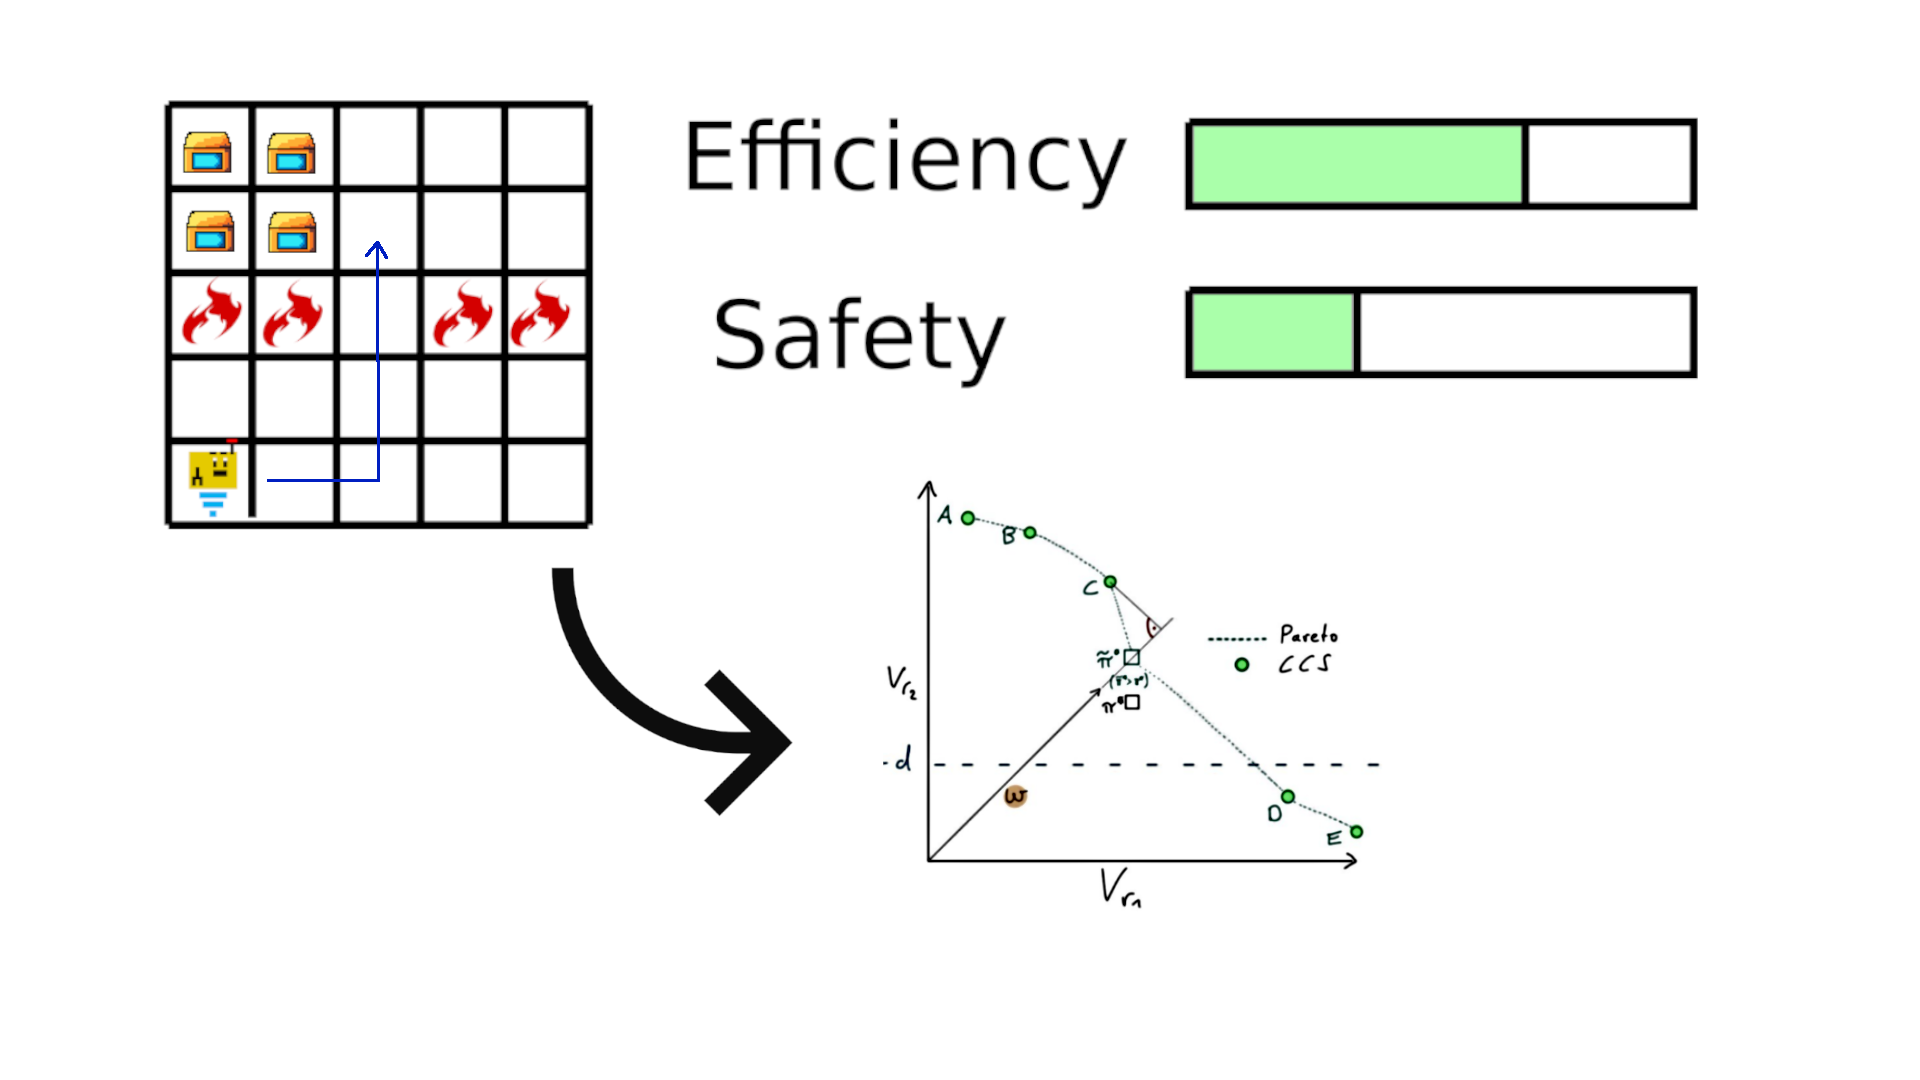
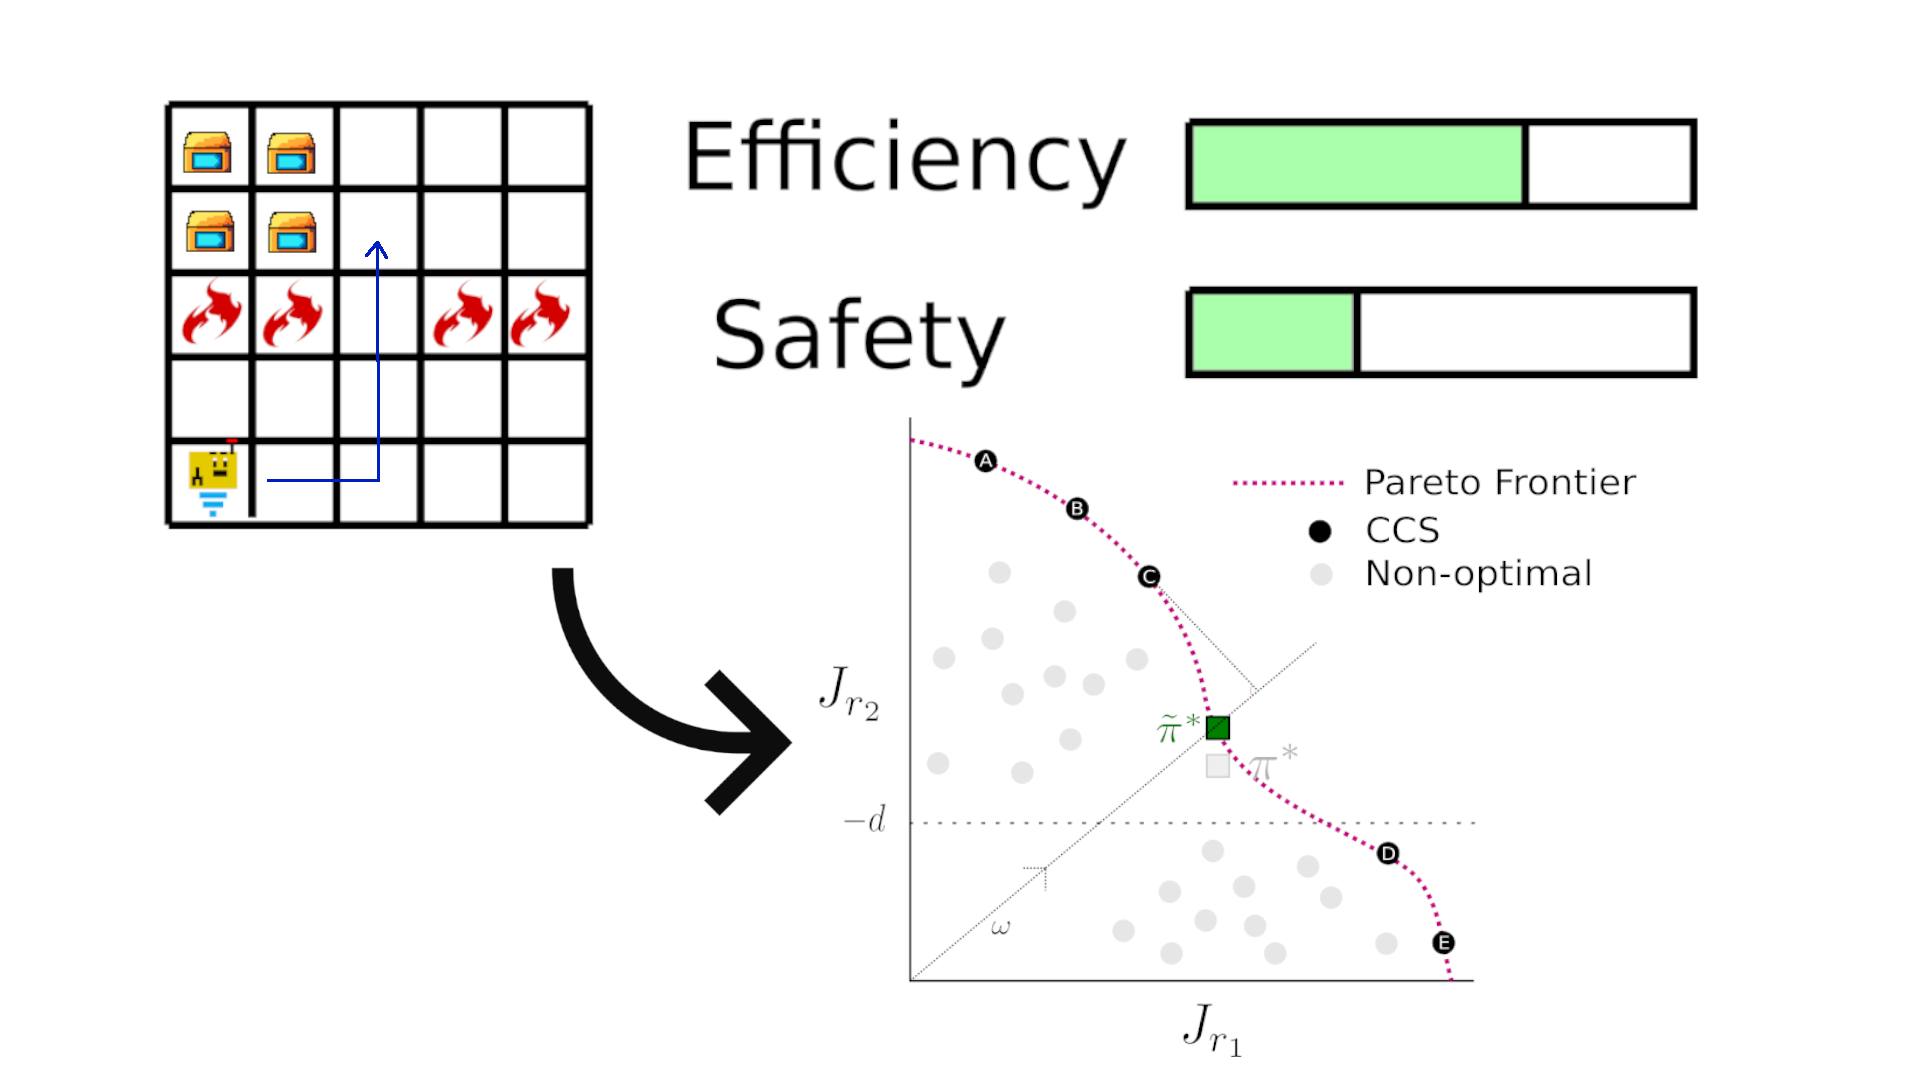
New pareto/ccs sketch

diff --git a/post/multi_objective_rl/index.html b/post/multi_objective_rl/index.html
@@ -733,12 +733,8 @@ $$\mathcal{F} := \begin{Bmatrix}J_\mathbf{r}(\pi) | \pi \in \Pi \wedge \nexists 
 <th style="text-align:center">Figure 1. Taken from Yang et al. [4]. (a) The Pareto frontier might not be convex. In this example, the CCS consists of points A-H but does not include K, whereas A-K form the Pareto boundary. (b) given a preference vector $\boldsymbol{\omega}$ the optimal solution will be a point on the CCS that maximizes the projection onto $\boldsymbol{\omega}$.</th>
 </tr>
 </thead>
-<tbody>
-<tr>
-<td style="text-align:center"><img src="paretoccs.png" alt="space-1.jpg"></td>
-</tr>
-</tbody>
 </table>
+<p><img src="paretoccs.png" alt="space-1.jpg"></p>
 <h2 id="2-whats-the-difference">2. What&rsquo;s the Difference?</h2>
 <p>When comparing the multi-objective and the constrained case, it immediately becomes apparent that there is a close connection between the two approaches. To formalize this connection, we will now consider a fixed MDP $\mathcal{M} = \langle \mathcal{S}, \mathcal{A}, \mathcal{T}, r \rangle$ that we extend by a single constraint function $c\geq 0$ and a hyperparameter $d\in\mathbb{R}$. We will call this CMDP $\mathcal{M_C}$. At the same time, consider the MOMDP $\mathcal{M}_{MO}$ obtained by extending $\mathcal{M}$ by a second reward function $r_2 = -c$. We would now like to investigate, when an optimal solution $\pi^* $ in $\mathcal{M_C}$ can also be obtained in $\mathcal{M}_{MO}$ when given a specific preference. We from now on denote $\Pi^*_C(d)$ the set of optimal policies for $\mathcal{M_C}$ (depending on the hyperparameter $d$). Formally, we would like to find out the following:</p>
 <p><strong>Question:</strong> For which values of $d$ does $\Pi^* _C(d) $  have a non empty intersection with policies on the convex coverage set $\mathcal{F^*}$ of $\mathcal{M}_{MO}$?</p>
@@ -755,12 +751,8 @@ $$\mathcal{F} := \begin{Bmatrix}J_\mathbf{r}(\pi) | \pi \in \Pi \wedge \nexists 
 <th style="text-align:center">Figure 2: When the CCS is not equal to the Pareto boundary, the CMDP solution will generally not be recoverable through linear preferences. In this example $\pi^*$ is an optimal CMDP solution which does not lie on the Pareto boundary $\mathcal{F}$. However, as lemma $1$ suggests, we can find an optimal $\tilde{\pi}^ * $ that does lie in $\mathcal{F}$, which yields higher $r_2$ (lower constraint cost) but the same original reward $r_1$. Since in this case the CCS consists of A-E but does not include $\tilde{\pi}^ * $, the scalarized reward $\boldsymbol{\omega}^T\mathbf{r}$ does not get maximized by $\tilde{\pi}^ *$, but by a point on the CCS (in this example that is C).</th>
 </tr>
 </thead>
-<tbody>
-<tr>
-<td style="text-align:center"><img src="pareto_ccs_sketch.jpg" alt="space-1.jpg"></td>
-</tr>
-</tbody>
 </table>
+<p><img src="pareto_ccs_sketch.png" alt="space-1.jpg"></p>
 <h2 id="3-discussion">3. Discussion</h2>
 <p>The illustrations above are mostly motivated from a practical point of view, namely: What kind of formulation is suitable in which kinds of settings? In general, one could argue that
 multi-objective RL is slightly more general than constrained RL, albeit both have their respective advantages and disadvantages. Lemma $1$ tells us that if we optimize for a complete

diff --git a/index.html b/index.html
@@ -1116,7 +1116,7 @@ My research deals with how we can optimize deep reinforcement learning agents fo
   
   
   <a href="/post/multi_objective_rl/">
-      <img src="/post/multi_objective_rl/featured_hu87f4ed3644840d4093a5b7e60e9dc132_161503_918x517_fill_q90_lanczos_smart1_2.png" class="article-banner" alt="Constrained versus Multi-Objective Reinforcement Learning. A Fundamental Difference?">
+      <img src="/post/multi_objective_rl/featured_hu87f4ed3644840d4093a5b7e60e9dc132_168999_918x517_fill_q90_lanczos_smart1_2.png" class="article-banner" alt="Constrained versus Multi-Objective Reinforcement Learning. A Fundamental Difference?">
   </a>
   
 

diff --git a/post/index.html b/post/index.html
@@ -647,7 +647,7 @@
     
     
     <a href="/post/multi_objective_rl/" >
-      <img src="/post/multi_objective_rl/featured_hu87f4ed3644840d4093a5b7e60e9dc132_161503_150x0_resize_lanczos_2.png" alt="Constrained versus Multi-Objective Reinforcement Learning. A Fundamental Difference?">
+      <img src="/post/multi_objective_rl/featured_hu87f4ed3644840d4093a5b7e60e9dc132_168999_150x0_resize_lanczos_2.png" alt="Constrained versus Multi-Objective Reinforcement Learning. A Fundamental Difference?">
     </a>
     
   </div>
